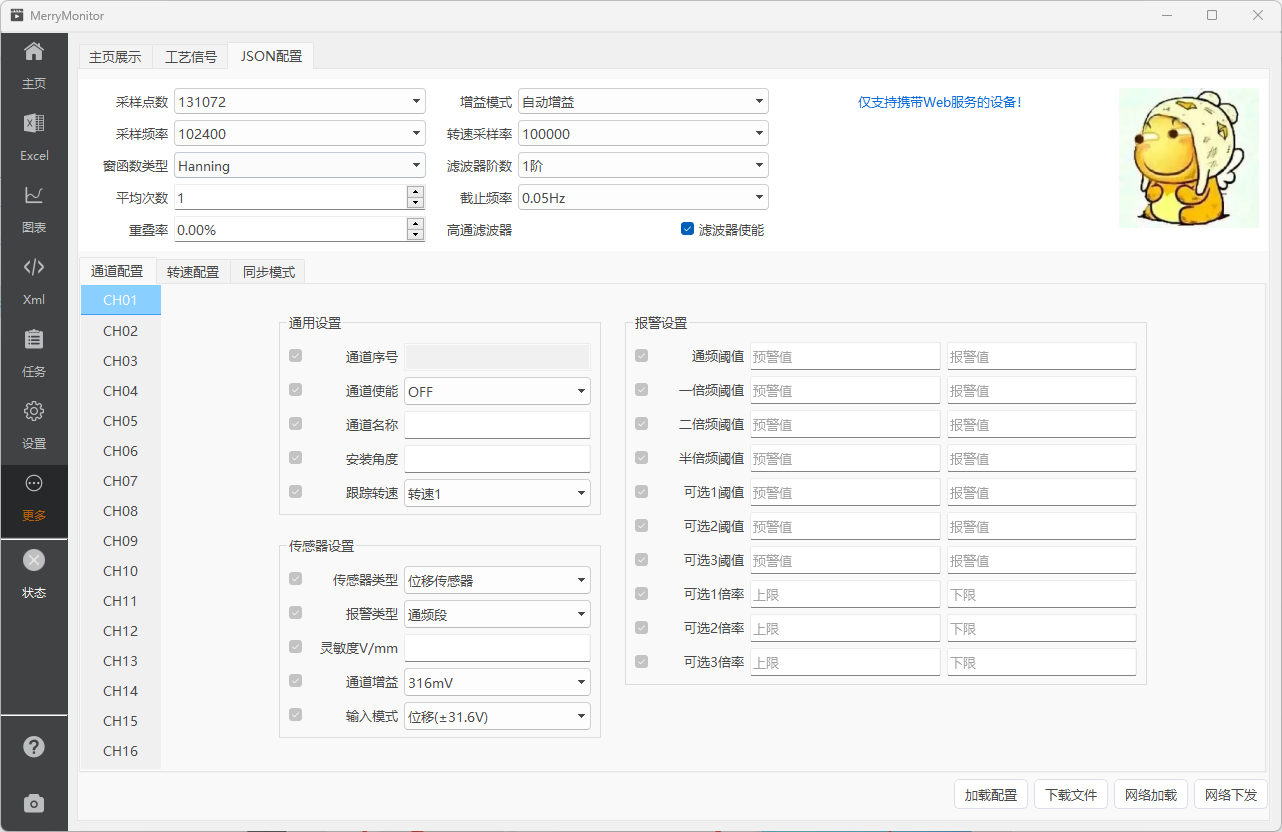
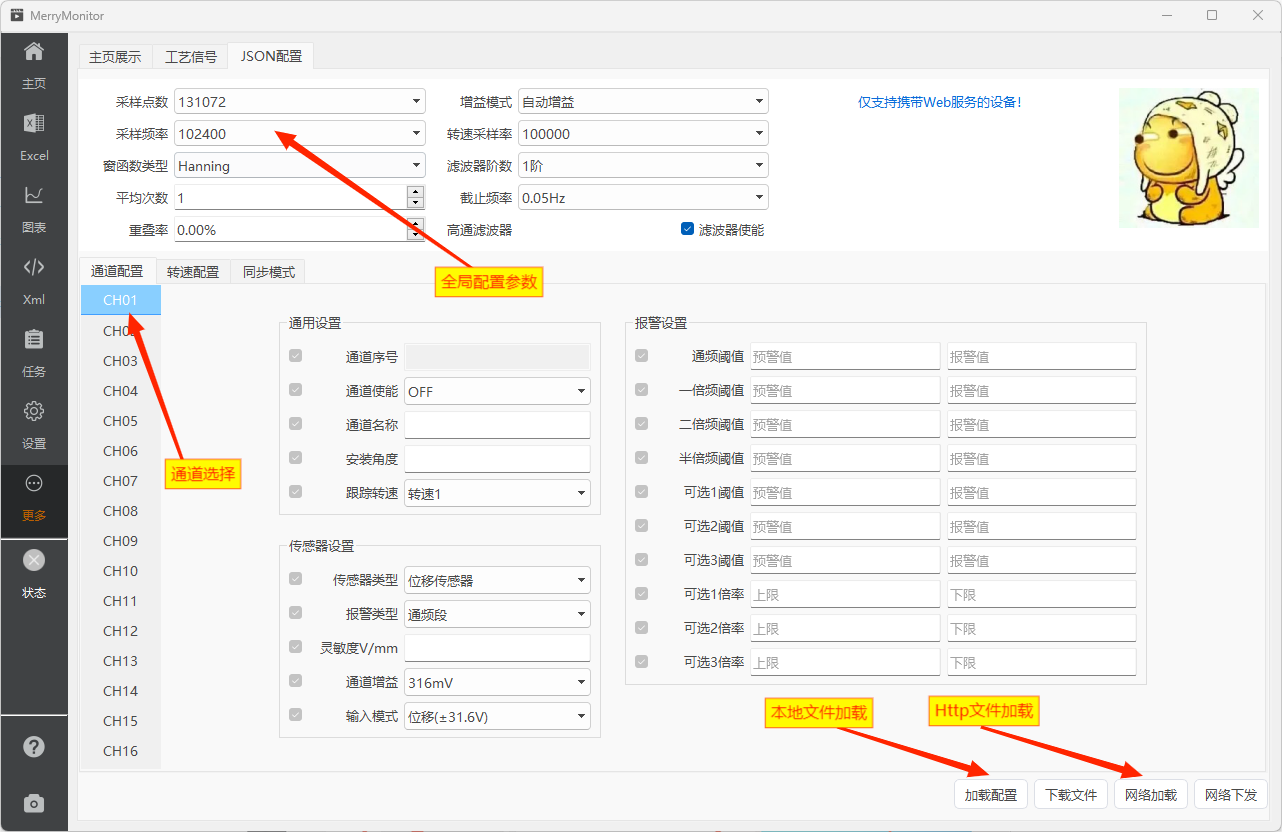
V2.0.0

diff --git a/src/.vuepress/sidebar.ts b/src/.vuepress/sidebar.ts
@@ -14,6 +14,15 @@ export default sidebar({
         "dataview.md",
         "xmlview.md",
         "setting.md",
+        {
+          "text": "更多设置",
+          icon: "laptop-code",
+          children: [
+            "mainpage.md",
+            "slowsignal.md",
+            "jsonview.md"
+          ]
+        }
       ],
     },
   ],

diff --git a/src/guide/jsonview.md b/src/guide/jsonview.md
@@ -1,0 +1,47 @@
+---
+title: JSON配置
+icon: file
+order: 1
+date: 2023-08-01
+category:
+  - 使用指南
+---
+
+::: info 配置可视化
+与XML配置可视化不同的是，JSON配置文件是将已经在Web端实现的可视化UI重新搬到Qt上实现的一个兼容性功能。
+
+多端统一，方便在没有Web服务的情况下，通过桌面程序加载本地配置文件的方式进行修改。
+:::
+
+## 页面标注
+
+配置文件的加载方式，提供了本地文件加载与Http网络加载两种方式。
+
+**其中Http部分的接口和Web程序使用的接口是一致的。** 
+不支持Web服务的设备，不能使用该功能！
+
+![](./assets/jsonchannel.png)
+
+## 通道配置
+
+点击左侧通道按钮，中央区域的配置界面将切换到对应的通道内容。
+
+::: warning
+下载配置文件前，你必须确保已经加载了一个 `config.json` 文件，应用程序需要使用模板文件以确保不会遗漏那些 **你正在使用，但又不需要可视化** 的标签。
+:::
+
+## 同步模式
+
+同步模式功能请参考 [XML配置](./xmlview.md#同步模式)。
+
+![](./assets/jsonsync.png)
+
+## 注意事项
+
+::: warning
+JSON的数据类型分为 String、Boolean、Number。
+
+由于JSON字段强制要求必须指定数据类型。根据实际情况，配置字段在保存JSON数据时，将强制转换成对应的数据类型。
+
+**其中浮点数仅保存两位有效数字。**
+:::

diff --git a/src/guide/xmlview.md b/src/guide/xmlview.md
@@ -8,18 +8,20 @@ category:
 ---
 
 ::: info 配置可视化
-长久以来，测试人员修改XML配置文件只能通过文本编辑器。这种方式不仅效率低，且出错率还高。非常不适合开发人员之外、不熟悉标签定义的其他人员使用。
+长久以来，修改XML配置文件只能通过文本编辑器。这种方式不仅效率低，且出错率还高。非常不适合开发人员之外、不熟悉标签定义的其他人员使用。
 
 因此，一个可视化的配置界面，不仅必要也非常重要。
 
 V2.0 版本的XML配置页面，参考了JSON配置页面。（先有的Web版本的JSON配置页面）
 
-相比V1.0 版本，UI操作逻辑与XML的解析转存方式，按照Web版本的 MVVM 模式进行了重写。在保留原有的解析效率、稳定性的同时，通过数据的双向绑定大幅优化了内存消耗。
+相比之前的版本，UI操作逻辑与XML的解析转存，按照Web版本的MVVM模式进行了重写，利用数据的双向绑定大幅优化了内存消耗。
 :::
 
 ## 页面标注
 
 配置文件的加载方式，提供了本地文件加载与Http网络加载两种方式。
+
+**其中，Http加载方式需要设备提供Web服务支持。**
 
 ::: tabs
 

diff --git a/src/guide/slowsignal.md b/src/guide/slowsignal.md
@@ -1,0 +1,42 @@
+---
+title: 工艺信号
+icon: file
+order: 1
+date: 2023-08-01
+category:
+  - 使用指南
+tag:
+  - 功能配置
+---
+
+::: info
+近期新增的测试条目，需要对采集的工艺信号进行线性回归。
+
+由于当前阶段工艺信号的数量不可控，只在个别的项目中存在。不适合将工艺信号的采集流程作为常驻功能集成在数据主屏上。
+
+因此，作为可以控制增减的功能页，放置在二级导航里。
+:::
+
+## 页面标注
+
+功能页将数据主屏与测试表格的部分功能进行了压缩删减与集成。目前最多支持8组工艺信号，根据需要可扩展通道数。
+
+![](./assets/slowsignal.png)
+
+## 自动采集
+
+自动采集功能请参考 [数据主屏](./monitor.md#自动采集)。
+
+使用自动采集功能的过程中，应用程序将接管 **测试电压、数据采集** 这两个功能按钮。
+
+## 通道使能
+
+应用程序默认开启了8个通道的使能，点击可关闭，所见即所得。
+
+## 测量误差
+
+测量误差说明请参考 [测试表格](./excel.md#测量误差)。
+
+## 线性回归
+
+线性回归系数文件的默认名为 `SIGCorrect.xml`，点击可下载。

diff --git a/src/guide/mainpage.md b/src/guide/mainpage.md
@@ -1,0 +1,20 @@
+---
+title: 主页链接
+icon: file
+order: 1
+date: 2023-07-09
+category:
+  - 使用指南
+tag:
+  - 功能配置
+---
+
+::: info 收纳页
+随着后续版本增加了越来越多的功能页，侧边栏导航已经无法容纳更多的设置。
+
+因此，一些后期增加但又不是很重要的功能页将收纳至二级导航。方便临时增减功能页，整体观感上也不会显得很突兀。
+:::
+
+展示页提供了快捷抵达本文档的入口地址。
+
+![](./assets/mainpage.png)

diff --git a/src/guide/monitor.md b/src/guide/monitor.md
@@ -20,7 +20,7 @@ category:
 
 ![](./assets/main.png)
 
-## 手动采集
+## 自动采集
 
 使用自动采集功能的过程中，应用程序将接管 **测试电压、试验次数、数据采集** 这几个功能按钮。
 
